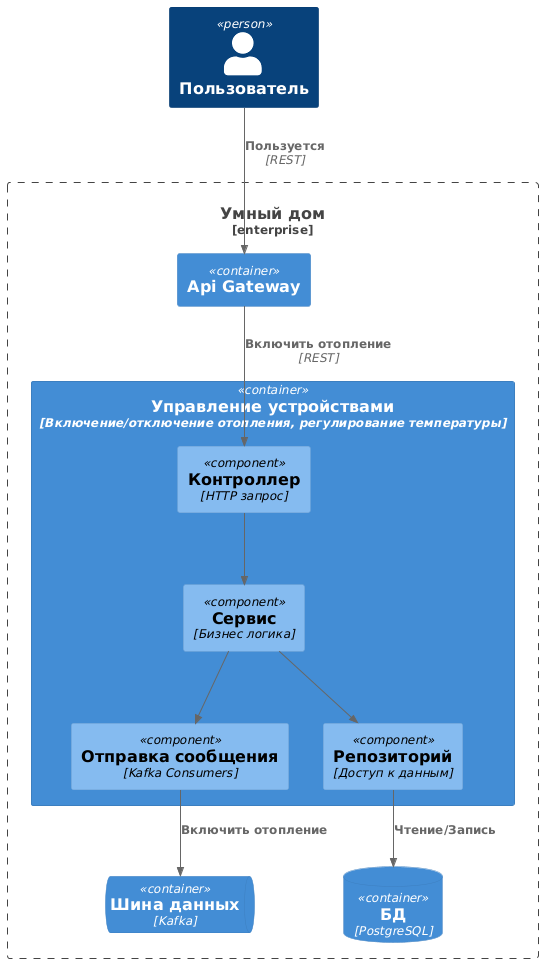
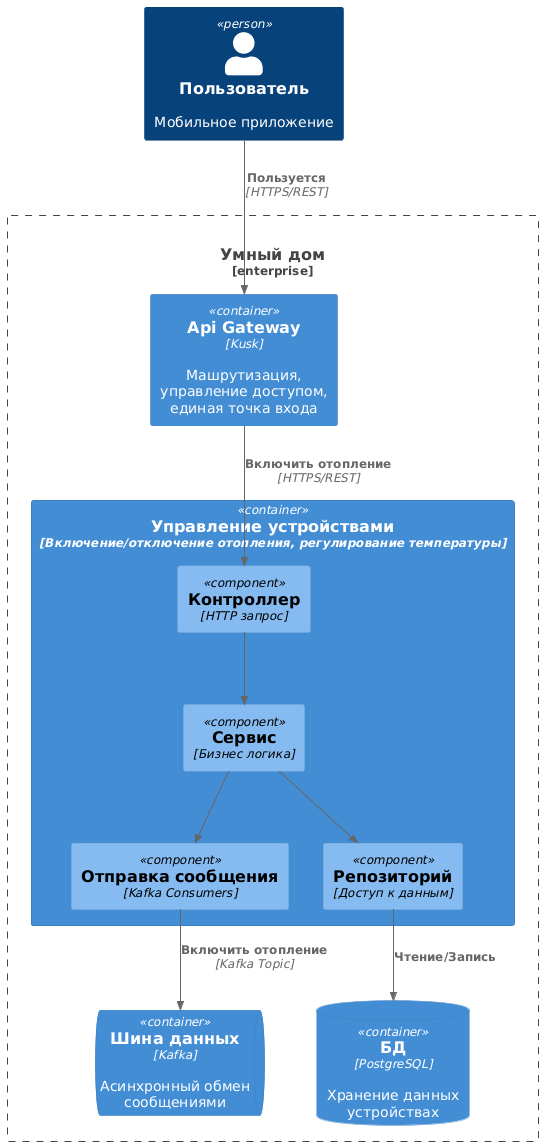
Исправления

Changed region(s): [[0.0589, 0.5919, 0.9724, 0.9969], [0.0589, 0.2181, 0.9724, 0.5607], [0.2652, 0.0, 0.6483, 0.1869]]

diff --git a/README.md b/README.md
@@ -8,11 +8,11 @@
     Все управление происходит от сервера к датчику.
 
 2) 
-  Домен: управление отоплением
+  - Домен: управление отоплением
     - Поддомен: управление температурой
       - Контекст: установка температуры
       - Контекст: включение/выключение отопления
-  Домен: Мониторинг температуры
+  - Домен: Мониторинг температуры
     - Поддомен: просмотр температуры
       - Контекст: получение информации о температуре
 
@@ -21,6 +21,8 @@
   - Для деплоя необходимо останавливать все приложение
   - Все взаимодействия происходят синхронно, может привести к снижение производительности и задержкам при обработке запросов
 
+- Язык программирования: Java
+- База данных: PostgreSQL
 
 Диаграмма: 
 
@@ -29,11 +31,10 @@
 ## Задание 2
 
 1) Микросервисы:
-    - Управление устройствами - микросервис завязан на включение/отключение отопления, регулирование температуры
-    - Управление наблюдением - микросервис для выбора камер в доме
-    - Управление воротами - микросервис для автоматического открытия/закрытия ворот
-    - Мониторинг температуры - микросервис для просмотра текущей температуры в доме
-    - Управление пользователями - микросервис для добавлния/редактирования/удаления пользователей
+    - Управление устройствами - микросервис завязан на включение/отключение отопления, регулирование температуры, выбора камер в доме, автоматического открытия/закрытия ворот
+    - Управление телеметрией - микросервис для сбора информации с телеметрии
+    - Управление пользователями - микросервис для добавлния/редактирования/удаления пользователей и аутентификации
+    - Сервис автоматизации - для настройки сценария устройств
     - Управление уведомлениями - микросервис для отпавки уведомлению пользователю о том, что действие совершено успешно или безуспешно
 
 2) Взаимодействие:
@@ -58,5 +59,11 @@
 
 ## Задание 3
 ER-Диаграмма
+
+- Пользователь — Дом: один пользователь может иметь доступ к нескольким домам, но каждый дом связан только с одним пользователем.
+- Пользователь - Роль: один пользователь может иметь несколько ролей
+- Дом — Устройство: один дом может содержать несколько устройств, и каждое устройство принадлежит только одному дому. 
+- Тип устройства - Устройство: одно устройство может иметь один тип
+- Устройство — Телеметрия: одно устройство может генерировать множество записей телеметрии.
 
 ![alt text](diagrams/er-diagram.png)
